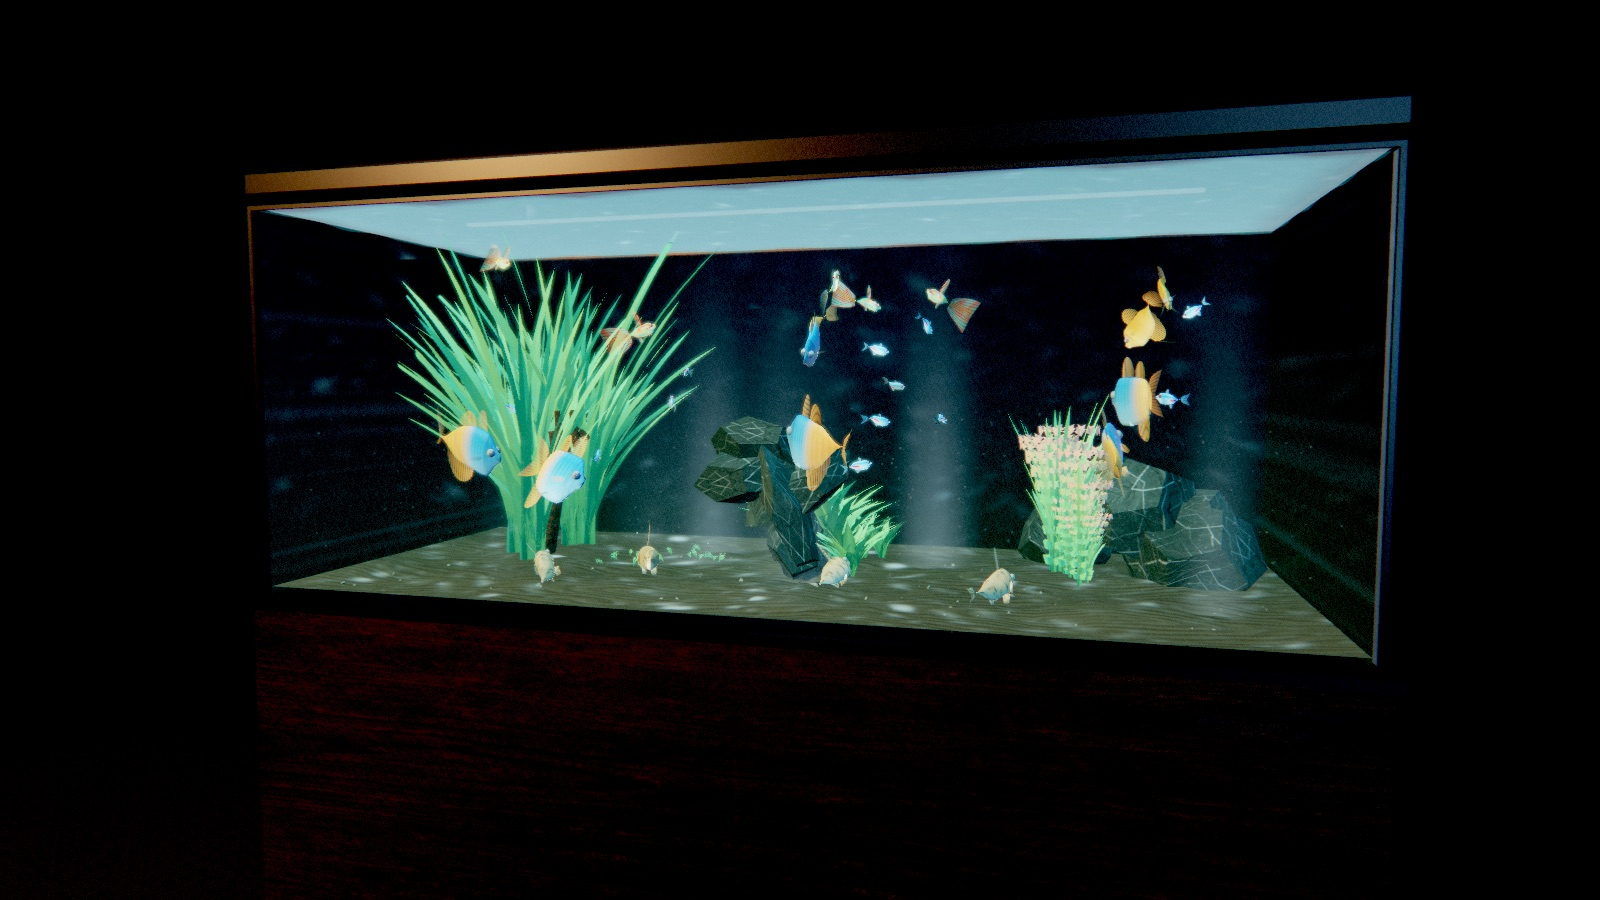
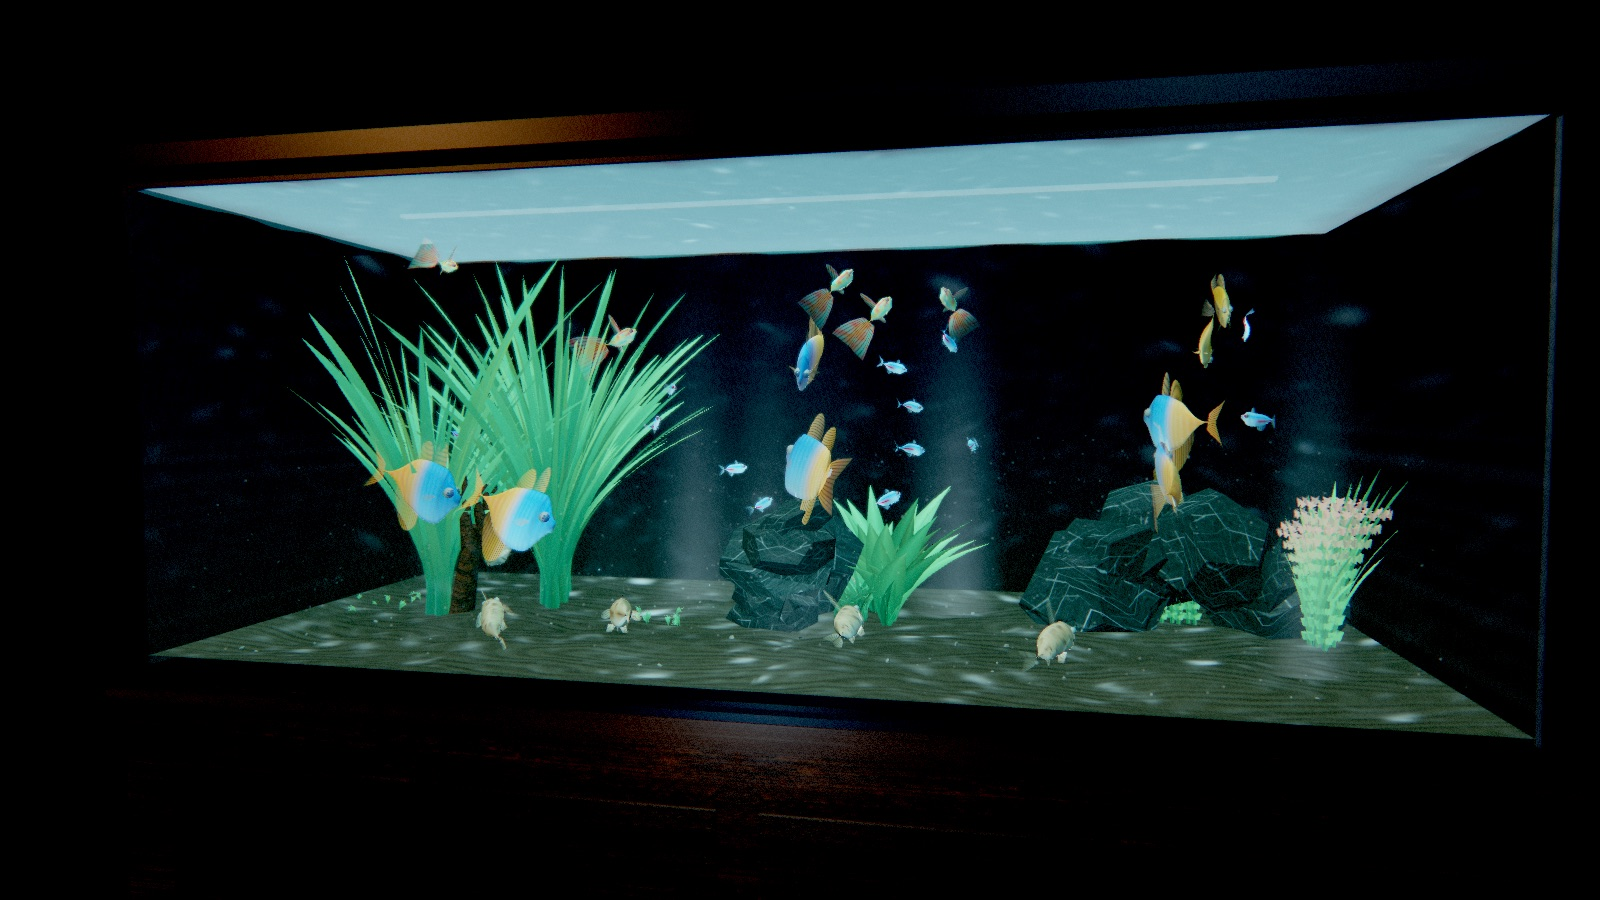
Tidekeeper II: put the tank in a room instead of a void
Calibrated against a photograph of a lit aquarium in a dark living room.
The tank was floating in black; it now throws light onto the wall behind
it and the floor in front, and stands on a piece of furniture rather than
a box — a top slab that overhangs, panelled doors and four legs.

The pools of light are painted as additive quads rather than lit with
point lights. three tests light.layers against the camera, not per object,
so any light bright enough to wash the wall also washes out the inside of
the tank, which is exactly what the first attempt did.

Two fixes found on the way:

The camera would not pull back far enough to see any of this, because
refit() clamped the distance on every resize and fought the player. It
now only rescues a view that has become useless.

And vallisneria was growing out through the lid. Plant scale is clamped
below the water line.

Claude-Session: https://claude.ai/code/session_018HsbzcbVnEz4cVugYKS3fY

diff --git a/gms/3d/tidekeeper2/js/render/world.js b/gms/3d/tidekeeper2/js/render/world.js
@@ -53,12 +53,14 @@ export class World {
     this.amb = new THREE.AmbientLight(0x4a6d8c, 1.15);
     this.scene.add(this.amb);
     /* the room */
-    this.room = new THREE.PointLight(0xffc287, 60, 120, 0.7);
-    this.room.position.set(-11, 10, 16);
-    this.room2 = new THREE.PointLight(0x7fb8e0, 26, 90, 0.8);
-    this.room2.position.set(10, 4, 16);
-    this.scene.add(this.room2);
+    this.room = new THREE.PointLight(0xffc287, 22, 120, 0.9);
+    this.room.position.set(-13, 11, 18);
     this.scene.add(this.room);
+    /* A light in the room would also light the inside of the tank, so the
+       pool the tank throws on the wall and the floor is painted rather than
+       lit. One weak point light picks out the cabinet face. */
+    this.spill = new THREE.PointLight(0xbfe8ff, 30, 26, 1.4);
+    this.scene.add(this.spill);
     this.moon = new THREE.DirectionalLight(0x8ac6ff, 0);
     this.moon.position.set(-2, 8, 3);
     this.scene.add(this.moon);
@@ -67,26 +69,52 @@ export class World {
   buildRoom() {
     const wallTex = photo('wall', { repeat: 4, fallback: wallFallback });
     const wallMat = new THREE.MeshStandardMaterial({
-      map: wallTex, normalMap: derivedNormal(wallTex, 0.5, 4), color: 0x2f3a45, roughness: 0.96 });
-    const back = new THREE.Mesh(new THREE.PlaneGeometry(90, 58), wallMat);
-    back.position.set(0, 14, -18);
+      map: wallTex, normalMap: derivedNormal(wallTex, 0.5, 4), color: 0x5d6b76, roughness: 0.97 });
+    const back = new THREE.Mesh(new THREE.PlaneGeometry(70, 46), wallMat);
+    back.position.set(0, 11, -13);
     this.root.add(back);
     for (const s of [1, -1]) {
-      const w = new THREE.Mesh(new THREE.PlaneGeometry(50, 58), wallMat);
-      w.position.set(s * 22, 14, 4); w.rotation.y = -s * Math.PI / 2;
+      const w = new THREE.Mesh(new THREE.PlaneGeometry(40, 46), wallMat);
+      w.position.set(s * 18, 11, 6); w.rotation.y = -s * Math.PI / 2;
       this.root.add(w);
     }
     const floorTex = photo('wall', { repeat: 9, fallback: wallFallback });
     const floor = new THREE.Mesh(new THREE.PlaneGeometry(160, 160),
-      new THREE.MeshStandardMaterial({ map: floorTex, color: 0x272d33, roughness: 0.88, metalness: 0.06 }));
+      new THREE.MeshStandardMaterial({ map: floorTex, color: 0x4c443b, roughness: 0.80, metalness: 0.04 }));
     floor.rotation.x = -Math.PI / 2; floor.position.y = -7;
     this.root.add(floor); this.floor = floor;
 
     const oakTex = photo('oak', { repeat: 2, fallback: oakFallback });
-    this.cabinet = new THREE.Mesh(new THREE.BoxGeometry(1, 1, 1),
-      new THREE.MeshStandardMaterial({ map: oakTex, normalMap: derivedNormal(oakTex, 0.8, 2),
-        color: 0x55463a, roughness: 0.58, metalness: 0.06 }));
+    const oakMat = new THREE.MeshStandardMaterial({ map: oakTex, normalMap: derivedNormal(oakTex, 0.8, 2),
+      color: 0x8a7154, roughness: 0.58, metalness: 0.06 });
+    const doorMat = new THREE.MeshStandardMaterial({ map: oakTex, color: 0x6f5c46, roughness: 0.62 });
+    this.cabinet = new THREE.Group();
+    this.cabBody = new THREE.Mesh(new THREE.BoxGeometry(1, 1, 1), oakMat);
+    this.cabTop = new THREE.Mesh(new THREE.BoxGeometry(1, 1, 1), oakMat);
+    this.cabinet.add(this.cabBody, this.cabTop);
+    this.cabLegs = []; this.cabDoors = [];
+    for (let i = 0; i < 4; i++) { const l = new THREE.Mesh(new THREE.BoxGeometry(1, 1, 1), oakMat);
+      this.cabLegs.push(l); this.cabinet.add(l); }
+    for (let i = 0; i < 2; i++) { const d = new THREE.Mesh(new THREE.BoxGeometry(1, 1, 1), doorMat);
+      this.cabDoors.push(d); this.cabinet.add(d); }
     this.root.add(this.cabinet);
+
+    /* the painted pools of light */
+    const glowMat = () => new THREE.ShaderMaterial({
+      transparent: true, depthWrite: false, blending: THREE.AdditiveBlending, side: THREE.DoubleSide,
+      uniforms: { uA: { value: 0.4 }, uCol: { value: new THREE.Color(0xa8dcff) } },
+      vertexShader: `varying vec2 vU; void main(){ vU = uv;
+        gl_Position = projectionMatrix * modelViewMatrix * vec4(position,1.0); }`,
+      fragmentShader: `varying vec2 vU; uniform float uA; uniform vec3 uCol;
+        void main(){ float d = length((vU - 0.5) * vec2(1.0, 1.25)) * 2.0;
+          float a = pow(max(0.0, 1.0 - d), 2.6) * uA;
+          gl_FragColor = vec4(uCol, a); }`,
+    });
+    this.glowBack = new THREE.Mesh(new THREE.PlaneGeometry(1, 1), glowMat());
+    this.glowFloor = new THREE.Mesh(new THREE.PlaneGeometry(1, 1), glowMat());
+    this.glowFloor.rotation.x = -Math.PI / 2;
+    this.glowBack.renderOrder = -1; this.glowFloor.renderOrder = -1;
+    this.root.add(this.glowBack, this.glowFloor);
     /* a plinth line under the tank, so it does not float */
     this.plinth = new THREE.Mesh(new THREE.BoxGeometry(1, 0.12, 1),
       new THREE.MeshStandardMaterial({ color: 0x11161b, roughness: 0.5, metalness: 0.3 }));
@@ -105,8 +133,22 @@ export class World {
     this.dims = T.dims.slice();
     this.tank.build(T.dims, T.water, T.substrate);
     const [W, H, D] = T.dims;
-    this.cabinet.scale.set(W + 0.30, 7, D + 0.26);
-    this.cabinet.position.set(0, -3.55, 0);
+    /* a top slab that overhangs, a body, four legs and two door panels */
+    const CW = W + 0.30, CD = D + 0.26, legH = 1.5, bodyH = 5.0;
+    this.cabTop.scale.set(CW + 0.22, 0.24, CD + 0.20);
+    this.cabTop.position.set(0, -0.22, 0);
+    this.cabBody.scale.set(CW, bodyH, CD);
+    this.cabBody.position.set(0, -0.34 - bodyH / 2, 0);
+    this.cabLegs.forEach((l, i) => {
+      l.scale.set(0.34, legH, 0.34);
+      l.position.set((i % 2 ? 1 : -1) * (CW / 2 - 0.25), -0.34 - bodyH - legH / 2, (i < 2 ? 1 : -1) * (CD / 2 - 0.25));
+    });
+    this.cabDoors.forEach((d, i) => {
+      d.scale.set(CW * 0.44, bodyH * 0.78, 0.07);
+      d.position.set((i ? 1 : -1) * CW * 0.235, -0.34 - bodyH / 2, CD / 2 + 0.02);
+    });
+    this.cabinet.position.set(0, 0, 0);
+    this.floor.position.y = -0.34 - bodyH - legH;
     this.plinth.scale.set(W + 0.45, 1, D + 0.4);
     this.plinth.position.set(0, -0.09, 0);
     this.hood.scale.set(W + 0.16, 1, D + 0.14);
@@ -115,6 +157,13 @@ export class World {
     this.tube.position.set(0, H + 0.18, 0);
     this.lamp.position.set(0, H + 0.9, 0);
     this.lamp.distance = Math.max(W, D) * 4;
+    /* in front and low, so it reaches the cabinet face and the floor; and
+       well behind, so the wall gets a wide wash rather than a hot spot */
+    this.spill.position.set(0, H * 0.10, D * 0.5 + 1.5);
+    this.glowBack.position.set(0, H * 0.75, -12.6);
+    this.glowBack.scale.set(W * 2.6, H * 5.0, 1);
+    this.glowFloor.position.set(0, this.floor.position.y + 0.02, D * 0.5 + 3.4);
+    this.glowFloor.scale.set(W * 2.2, D * 4.5, 1);
     this.key.target.position.set(0, H * 0.4, 0);
     this.key.target.updateMatrixWorld();
     return this;
@@ -183,7 +232,11 @@ export class World {
       list.forEach((p) => {
         let seed = (p.x * 971 + p.z * 613 + 7) | 0;
         const rq = () => { seed = (seed * 1664525 + 1013904223) >>> 0; return seed / 4294967296; };
-        const base = PL[p.id].height * 2.5 * p.scale * (0.45 + 0.55 * p.health) * (this.dims[1] / 2.6);
+        /* the plant meshes are about one unit tall at scale 1, so this also
+           clamps them below the water line — a vallisneria that grows out
+           through the lid is the kind of thing you only notice in a render */
+        const base = Math.min(this.dims[1] * 0.86,
+          PL[p.id].height * 2.5 * p.scale * (0.45 + 0.55 * p.health) * (this.dims[1] / 2.6));
         const r = PL[p.id].kind === 'carpet' ? 0.62 : 0.26;
         for (let c = 0; c < clump && n < mesh.instanceMatrix.count; c++) {
           const a = rq() * TAU, d = c === 0 ? 0 : Math.sqrt(rq()) * r;
@@ -343,8 +396,16 @@ export class World {
     this.lamp.intensity = (2.5 + 16 * day) * lamp + night * 2.4;
     this.lamp.color.setHex(0xd8f2ff).lerp(new THREE.Color(0x86b8ff), night);
     this.moon.intensity = night * 1.2;
-    this.room.intensity = 52 + night * 26;
-    this.room2.intensity = 20 + night * 10;
+    this.room.intensity = 26 + night * 12;
+    const spill = (0.35 + 0.65 * day) * lamp;
+    this.spill.intensity = 34 * spill;
+    this.spill.color.setHex(0xbfe8ff).lerp(new THREE.Color(0x7fb4ff), night);
+    if (this.glowBack) {
+      this.glowBack.material.uniforms.uA.value = 0.85 * spill;
+      this.glowFloor.material.uniforms.uA.value = 0.55 * spill;
+      this.glowBack.material.uniforms.uCol.value.setHex(0xa8dcff).lerp(new THREE.Color(0x6fa8ff), night);
+      this.glowFloor.material.uniforms.uCol.value.copy(this.glowBack.material.uniforms.uCol.value);
+    }
     this.amb.intensity = 1.0 + night * 0.35;
     this.tube.material.color.setHex(0xf2fbff).multiplyScalar(0.15 + day * lamp);
 

diff --git a/gms/3d/tidekeeper2/js/render/camera.js b/gms/3d/tidekeeper2/js/render/camera.js
@@ -77,13 +77,16 @@ export class Orbit {
     const [W, H, D] = dims;
     this.goal.set(0, H * 0.48, 0);
     this.distG = this.fitDistance();
-    this.maxD = Math.max(W, D) * 4;
+    this.maxD = Math.max(W, D) * 4 + 26;
     if (instant) { this.tgt.copy(this.goal); this.dist = this.distG; }
   }
+  /** Only correct a view that has become useless, never fight a deliberate one.
+      The player is allowed to pull back far enough to see the room. */
   refit() {
     if (this.follow) return;
     const want = this.fitDistance();
-    if (this.distG > want * 0.5) this.distG = clamp(this.distG, want * 0.85, want * 1.25);
+    if (this.distG < want * 0.30) this.distG = want;
+    this.maxD = Math.max(this.dims[0], this.dims[2]) * 4 + 26;
   }
   setFollow(f) { this.follow = f; this.followT = 0; }
   update(dt) {

diff --git a/gms/3d/tidekeeper2/CLAUDE.md b/gms/3d/tidekeeper2/CLAUDE.md
@@ -87,6 +87,22 @@ deliberately dark for the same reason: a pale floor bounces light everywhere
 and flattens the fish. `assets/tex/ref_*.jpg` are art-direction references,
 gitignored, not shipped.
 
+## The room
+
+The tank is the only light source in a dark room, and that contrast is most of
+why photographs of aquariums look the way they do. Two things to know:
+
+- **The pools of light on the wall and floor are painted, not lit.** three has
+  no per-object light masking — `light.layers` is tested against the *camera*,
+  not per object — so any point light bright enough to wash the wall also
+  washes out the inside of the tank. `glowBack` and `glowFloor` are additive
+  quads instead; only one weak point light picks out the cabinet face.
+- `Orbit.refit()` deliberately does **not** clamp a deliberate view any more.
+  It only rescues a camera that has ended up too close to see anything, so the
+  player can pull right back and look at the room.
+
+Plant scale is clamped to `dims[1] * 0.86` so nothing grows out through the lid.
+
 Balance facts worth re-proving after any change to the sim:
 - A betta plus six neons in the 10 gallon starter is over capacity, and the
   warning fires before anything dies.
